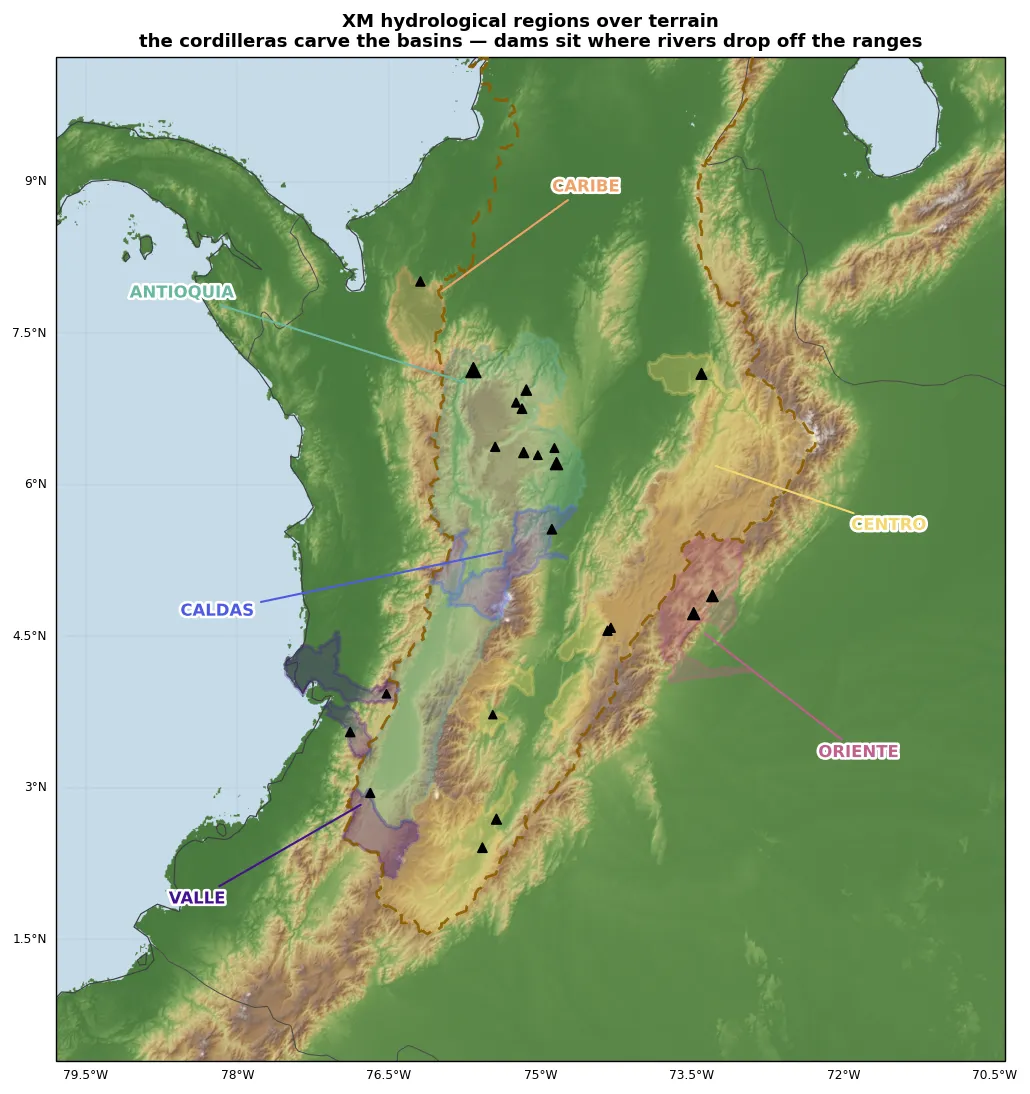
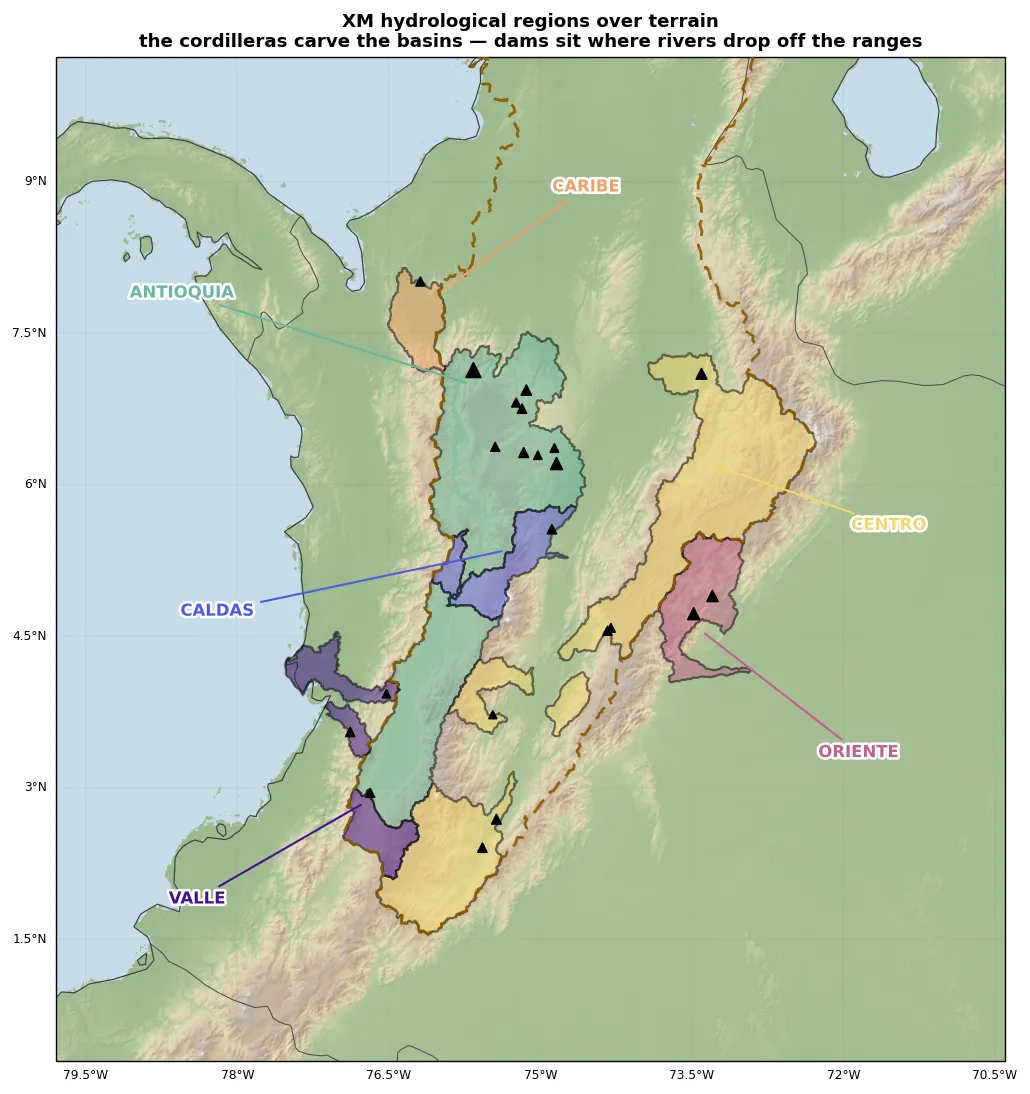
Colombia hydro: topo map legibility — black contours, stronger fills, muted terrain

diff --git a/colombia_hydro/index.html b/colombia_hydro/index.html
@@ -68,9 +68,9 @@ daily. Rain here today is turbine water in the coming weeks.</p>
 <div class="chips" id="chips"></div>
 
 <div class="cols">
-  <div class="panel"><img src="xm_regions_map.webp?v=202607231114"
+  <div class="panel"><img src="xm_regions_map.webp?v=202607231120"
     alt="Map of XM hydrological regions built from IDEAM subzonas"></div>
-  <div class="panel"><img src="xm_regions_departments.webp?v=202607231114"
+  <div class="panel"><img src="xm_regions_departments.webp?v=202607231120"
     alt="Department-scale display view of the XM regions with true basins outlined">
     <p class="note" style="margin:8px 4px 2px">Two views of the same regions: the
     <b>contributing basins</b> (left — used for all rainfall averaging on this page) and the
@@ -87,7 +87,7 @@ daily. Rain here today is turbine water in the coming weeks.</p>
 valleys are visible, and the dams cluster exactly where rivers drop off the ranges —
 the eastern slope above the llanos (Oriente), the Magdalena's canyon exits (Centro),
 and Antioquia's dissected plateau.</p>
-<div class="panel"><img src="xm_regions_topo.webp?v=202607231116"
+<div class="panel"><img src="xm_regions_topo.webp?v=202607231120"
   alt="XM hydro regions over shaded terrain"></div>
 
 <h2>The regions</h2>

diff --git a/scripts/sst/render_hydro_maps.py b/scripts/sst/render_hydro_maps.py
@@ -161,9 +161,10 @@ def topo_map(regions):
     z = np.array(tif, dtype="float32")
     ext = (-80.5, -69.5, -5.5, 13.5)                    # matches the export bbox
     ls = LightSource(azdeg=315, altdeg=40)
+    # muted terrain so the region overlays stay the loudest layer
     terrain = LinearSegmentedColormap.from_list("land", [
-        (0.00, "#4a7a3f"), (0.12, "#7aa05a"), (0.30, "#c9bf7e"),
-        (0.55, "#a8845c"), (0.78, "#8a7466"), (1.00, "#f2efe9")])
+        (0.00, "#9db98e"), (0.12, "#b5c69c"), (0.30, "#ddd6b2"),
+        (0.55, "#cbb59a"), (0.78, "#bfb2a8"), (1.00, "#f5f3ef")])
     zl = np.clip(z, 0, None)
     rgb = ls.shade(zl, cmap=terrain, blend_mode="soft",
                    vmin=0, vmax=4800, vert_exag=0.12, dx=900, dy=900)
@@ -178,8 +179,8 @@ def topo_map(regions):
     for name in ["ANTIOQUIA", "CENTRO", "ORIENTE", "VALLE", "CARIBE", "CALDAS"]:
         rr = regions[regions["name"] == name].iloc[0]
         ax.add_geometries([rr.geometry], ccrs.PlateCarree(),
-                          facecolor=COLORS[name], alpha=0.28,
-                          edgecolor=COLORS[name], linewidth=2.0, zorder=3)
+                          facecolor=COLORS[name], alpha=0.5,
+                          edgecolor="k", linewidth=1.3, zorder=3)
     _magdalena(ax)
     plants = json.load(open(HERE / "colombia_hydro_plants.json"))["plants"]
     ax.scatter([p["lon"] for p in plants], [p["lat"] for p in plants],
